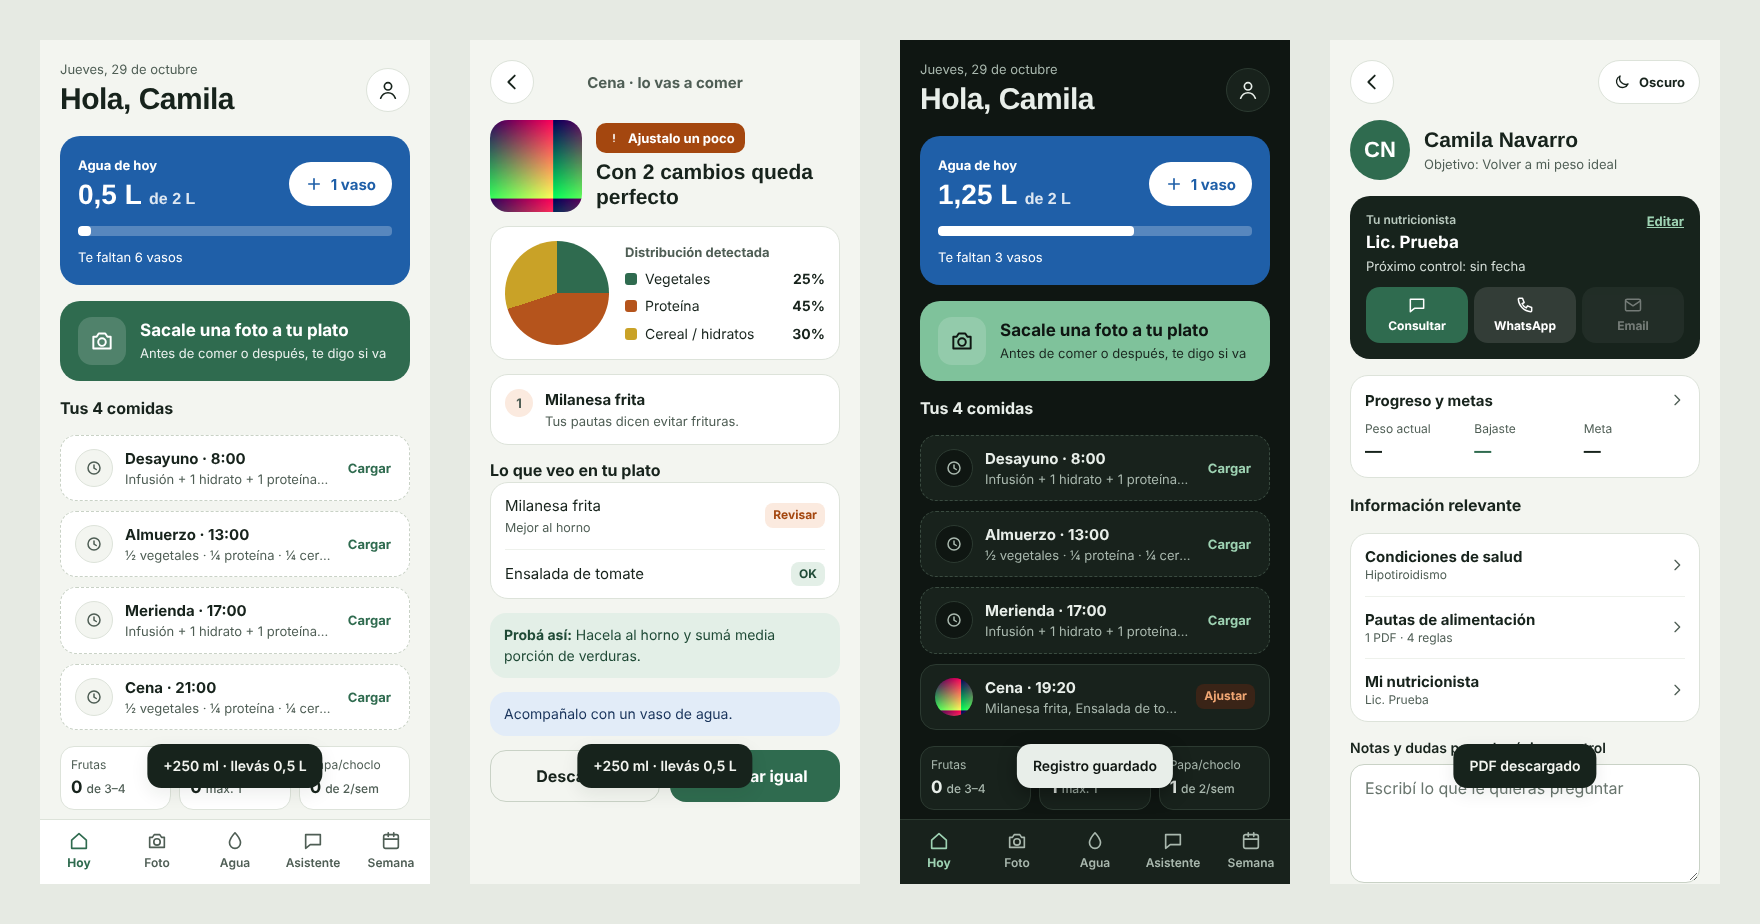
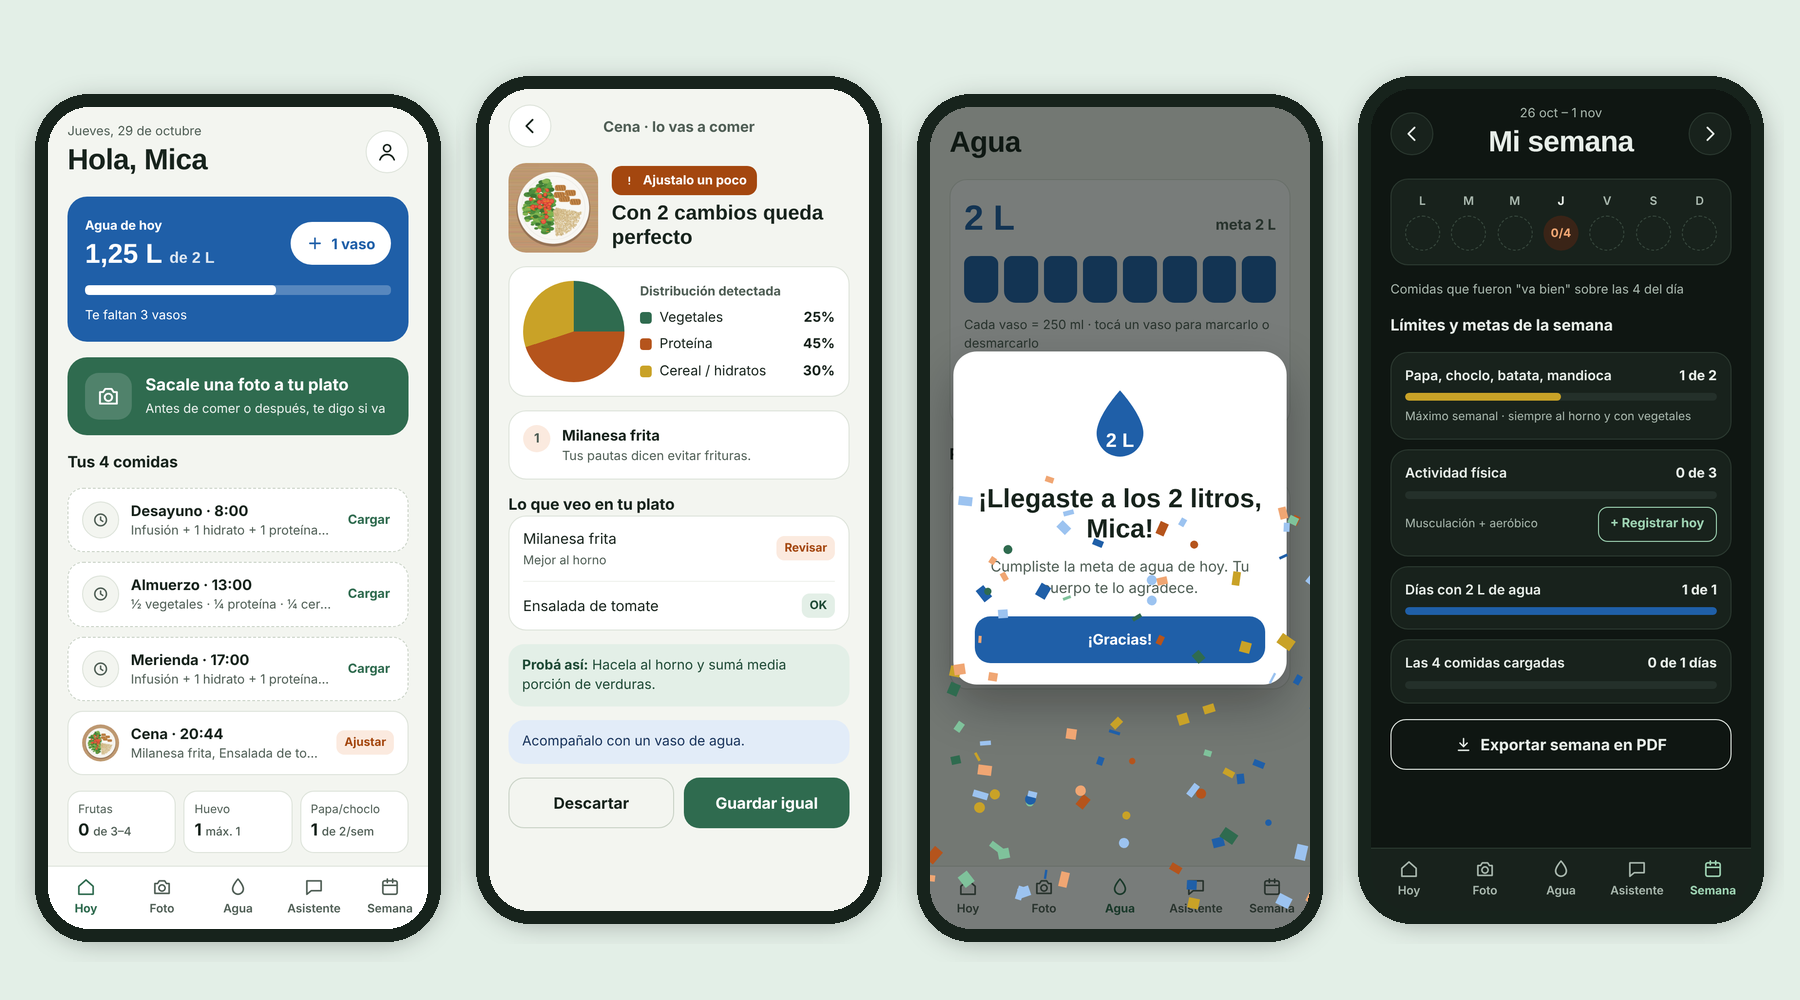
Update general

diff --git a/Mi-Plato/index.html b/Mi-Plato/index.html
@@ -9,7 +9,7 @@
   <link rel="preconnect" href="https://fonts.googleapis.com">
   <link rel="preconnect" href="https://fonts.gstatic.com" crossorigin>
   <link href="https://fonts.googleapis.com/css2?family=Bricolage+Grotesque:opsz,wght@12..96,600;12..96,700&family=DM+Sans:wght@400;500;600;700&display=swap" rel="stylesheet">
-  <link rel="stylesheet" href="css/styles.css?v=6">
+  <link rel="stylesheet" href="css/styles.css?v=7">
 </head>
 <body>
 
@@ -79,6 +79,11 @@
           <div class="grid-2">
             <div class="field"><label for="reg-nombre">Nombre</label><input id="reg-nombre" name="nombre" autocomplete="given-name" required></div>
             <div class="field"><label for="reg-apellido">Apellido</label><input id="reg-apellido" name="apellido" autocomplete="family-name" required></div>
+          </div>
+          <div class="field">
+            <label for="reg-apodo">Apodo <span class="muted">(opcional)</span></label>
+            <input id="reg-apodo" name="apodo" autocomplete="nickname" maxlength="24" placeholder="Ej.: Mica">
+            <small class="hint">Así te va a saludar la app.</small>
           </div>
           <div class="field"><label for="reg-email">Email</label><input id="reg-email" name="email" type="email" autocomplete="email" required></div>
           <div class="grid-2 grid-2--wrap">
@@ -395,6 +400,11 @@
           <a class="list-link" href="#nutri"><span><strong>Mi nutricionista</strong><small class="muted" id="perfil-nutri-txt"></small></span><svg class="chev"><use href="#i-chevron"></use></svg></a>
         </div>
         <div class="field">
+          <label for="perfil-apodo">Apodo <span class="muted">(opcional)</span></label>
+          <input id="perfil-apodo" maxlength="24" autocomplete="nickname" placeholder="¿Cómo querés que te digamos?">
+          <small class="hint">Si lo dejás vacío, usamos tu nombre.</small>
+        </div>
+        <div class="field">
           <label for="perfil-notas">Notas y dudas para el próximo control</label>
           <textarea id="perfil-notas" rows="4" placeholder="Escribí lo que le quieras preguntar"></textarea>
         </div>
@@ -502,15 +512,15 @@
   <!-- jsPDF para exportar la semana -->
   <script src="https://cdnjs.cloudflare.com/ajax/libs/jspdf/2.5.1/jspdf.umd.min.js"></script>
 
-  <script src="js/storage.js?v=6"></script>
-  <script src="js/ui.js?v=6"></script>
-  <script src="js/api.js?v=6"></script>
-  <script src="js/auth.js?v=6"></script>
-  <script src="js/hoy.js?v=6"></script>
-  <script src="js/comidas.js?v=6"></script>
-  <script src="js/semana.js?v=6"></script>
-  <script src="js/chat.js?v=6"></script>
-  <script src="js/perfil.js?v=6"></script>
-  <script src="js/app.js?v=6"></script>
+  <script src="js/storage.js?v=7"></script>
+  <script src="js/ui.js?v=7"></script>
+  <script src="js/api.js?v=7"></script>
+  <script src="js/auth.js?v=7"></script>
+  <script src="js/hoy.js?v=7"></script>
+  <script src="js/comidas.js?v=7"></script>
+  <script src="js/semana.js?v=7"></script>
+  <script src="js/chat.js?v=7"></script>
+  <script src="js/perfil.js?v=7"></script>
+  <script src="js/app.js?v=7"></script>
 </body>
 </html>

diff --git a/web/index.html b/web/index.html
@@ -228,6 +228,22 @@
                 <div class="projects-grid carousel-track" id="projectsTrack" tabindex="0">
                     <article class="project-card">
                         <div class="project-image">
+                            <img src="assets/img/mi-plato.webp" alt="Capturas de Mi Plato: pantalla Hoy con el agua del día, análisis de un plato y festejo al llegar a los 2 litros" width="800" height="500" loading="lazy">
+                        </div>
+                        <div class="project-info">
+                            <h3>Mi Plato</h3>
+                            <p class="project-description">App mobile para seguir el plan de tu nutricionista: le sacás foto al plato y la IA te dice si va bien según tus pautas. Agua diaria con recordatorios, resumen semanal en PDF y chat de recetas.</p>
+                            <ul class="project-tech">
+                                <li>HTML5</li><li>CSS3</li><li>JavaScript</li><li>Gemini API</li><li>Vercel</li>
+                            </ul>
+                            <div class="project-links">
+                                <a href="https://mi-plato-cmno.vercel.app/" target="_blank" rel="noopener" class="project-link">Ver demo</a>
+                                <a href="https://github.com/NavarroCam/Portafolio/tree/main/Mi-Plato" target="_blank" rel="noopener" class="project-link">Ver código</a>
+                            </div>
+                        </div>
+                    </article>
+                    <article class="project-card">
+                        <div class="project-image">
                             <img src="assets/img/rastreador-postulaciones.png" alt="Captura del Rastreador de postulaciones con el resumen por estado y la lista de seguimientos" width="800" height="560" loading="lazy">
                         </div>
                         <div class="project-info">

diff --git a/Mi-Plato/js/perfil.js b/Mi-Plato/js/perfil.js
@@ -20,6 +20,12 @@ Screens.perfil = {
       UI.toast('Notas guardadas');
     });
     document.getElementById('perfil-tema').addEventListener('change', e => UI.setTema(e.target.value));
+    document.getElementById('perfil-apodo').addEventListener('change', e => {
+      const apodo = e.target.value.trim().slice(0, 24);
+      Store.update(u => { u.perfil.apodo = apodo; });
+      UI.toast(apodo ? `¡Listo, ${apodo}!` : 'Apodo borrado: te vamos a decir por tu nombre');
+      this.render();
+    });
     document.getElementById('perfil-salir').addEventListener('click', () => {
       Store.logout();
       UI.ir('login');
@@ -30,7 +36,8 @@ Screens.perfil = {
     const u = Store.u;
     const p = u.perfil;
     document.getElementById('perfil-iniciales').textContent = ((p.nombre[0] || '') + (p.apellido[0] || '')).toUpperCase();
-    document.getElementById('perfil-nombre').textContent = `${p.nombre} ${p.apellido}`.trim();
+    document.getElementById('perfil-nombre').textContent = `${p.nombre} ${p.apellido}`.trim() + (p.apodo ? ` (${p.apodo})` : '');
+    document.getElementById('perfil-apodo').value = p.apodo || '';
     document.getElementById('perfil-objetivo').textContent = u.nutri.objetivo ? 'Objetivo: ' + u.nutri.objetivo : Store.email;
 
     // Tarjeta de nutricionista: solo si indicó que tiene uno

diff --git a/Mi-Plato/js/hoy.js b/Mi-Plato/js/hoy.js
@@ -62,7 +62,8 @@ const Festejo = {
     const modal = document.getElementById('festejo');
     const u = Store.u;
     const racha = Agua.racha();
-    document.getElementById('festejo-titulo').textContent = `¡Llegaste a los 2 litros${u.perfil.nombre ? ', ' + u.perfil.nombre : ''}!`;
+    const quien = nombreCorto();
+    document.getElementById('festejo-titulo').textContent = `¡Llegaste a los 2 litros${quien ? ', ' + quien : ''}!`;
     document.getElementById('festejo-texto').textContent = racha > 1
       ? `Llevás ${racha} días seguidos cumpliendo la meta de agua. ¡Seguí así!`
       : 'Cumpliste la meta de agua de hoy. Tu cuerpo te lo agradece.';
@@ -204,7 +205,7 @@ Screens.hoy = {
     const u = Store.u;
     const hoy = new Date();
     document.getElementById('hoy-fecha').textContent = Fechas.largo(hoy);
-    document.getElementById('hoy-saludo').textContent = 'Hola, ' + (u.perfil.nombre || '');
+    document.getElementById('hoy-saludo').textContent = nombreCorto() ? 'Hola, ' + nombreCorto() : 'Hola';
 
     // Agua
     const ml = Agua.hoy();

diff --git a/Mi-Plato/js/storage.js b/Mi-Plato/js/storage.js
@@ -33,7 +33,7 @@ const Store = (() => {
     return {
       creado: new Date().toISOString(),
       passHash: datos.passHash,
-      perfil: { nombre: datos.nombre, apellido: datos.apellido, nacimiento: datos.nacimiento || '', altura: datos.altura || '' },
+      perfil: { nombre: datos.nombre, apellido: datos.apellido, apodo: datos.apodo || '', nacimiento: datos.nacimiento || '', altura: datos.altura || '' },
       onboarding: false,
       salud: { condiciones: [], otra: '', alergias: '' },
       nutri: { tiene: true, nombre: '', telefono: '', email: '', proximo: '', frecuencia: 'Cada 15 días', objetivo: '' },
@@ -73,6 +73,13 @@ const Store = (() => {
     }
   };
 })();
+
+/** Cómo le habla la app al usuario: el apodo si lo cargó, si no el nombre */
+function nombreCorto() {
+  const p = Store.u ? Store.u.perfil : null;
+  if (!p) return '';
+  return (p.apodo || p.nombre || '').trim();
+}
 
 /* ---------- Fechas ---------- */
 const Fechas = {

diff --git a/Mi-Plato/api/gemini.js b/Mi-Plato/api/gemini.js
@@ -49,7 +49,8 @@ function contextoUsuario(b) {
       : 'Todavía no cargó pautas de su nutricionista: usá criterios generales de alimentación saludable (plato con ½ vegetales, ¼ proteína magra, ¼ cereal integral o legumbre, evitar frituras y ultraprocesados).',
     cond.length ? 'Condiciones de salud que indicó: ' + cond.join(', ') + '.' : '',
     b.alergias ? 'Alergias o alimentos que no puede comer: ' + String(b.alergias).slice(0, 300) + '.' : '',
-    b.objetivo ? 'Su objetivo: ' + String(b.objetivo).slice(0, 200) + '.' : ''
+    b.objetivo ? 'Su objetivo: ' + String(b.objetivo).slice(0, 200) + '.' : '',
+    b.apodo ? 'Se llama "' + String(b.apodo).slice(0, 24).replace(/["\n]/g, '') + '": si la/lo nombrás, usá ese nombre (sin abusar).' : ''
   ].filter(Boolean).join('\n');
 }
 

diff --git a/Mi-Plato/js/chat.js b/Mi-Plato/js/chat.js
@@ -54,7 +54,8 @@ Screens.chat = {
     const log = document.getElementById('chat-log');
     const msgs = Store.u.chat;
     if (!msgs.length) {
-      log.innerHTML = `<p class="chat-empty">Preguntame por recetas, ingredientes o qué comer.<br>Respondo según tus pautas${Store.u.pautas.reglas.length ? '' : ' (todavía no cargaste ninguna)'}.</p>`;
+      const quien = nombreCorto();
+      log.innerHTML = `<p class="chat-empty">${quien ? `¡Hola, ${UI.esc(quien)}! ` : ''}Preguntame por recetas, ingredientes o qué comer.<br>Respondo según tus pautas${Store.u.pautas.reglas.length ? '' : ' (todavía no cargaste ninguna)'}.</p>`;
     } else {
       log.innerHTML = msgs.map(m => m.role === 'user'
         ? `<div class="msg msg--user">${UI.esc(m.text)}</div>`

diff --git a/Mi-Plato/js/auth.js b/Mi-Plato/js/auth.js
@@ -55,6 +55,7 @@ Screens.registro = {
         passHash: await hashPass(email, f.pass.value),
         nombre: f.nombre.value.trim(),
         apellido: f.apellido.value.trim(),
+        apodo: f.apodo.value.trim(),
         nacimiento: f.nacimiento.value,
         altura: f.altura.value
       });
@@ -239,7 +240,7 @@ Screens.pautas = {
       this.cola = this.cola.filter(x => x.estado !== 'error');
       if (!Store.u.onboarding) {
         Store.update(u => { u.onboarding = true; });
-        UI.toast('¡Listo! Ya podés cargar tu primera comida.');
+        UI.toast(`¡Listo${nombreCorto() ? ', ' + nombreCorto() : ''}! Ya podés cargar tu primera comida.`);
         UI.ir('hoy');
       } else {
         UI.ir('perfil');

diff --git a/Mi-Plato/css/styles.css b/Mi-Plato/css/styles.css
@@ -239,6 +239,8 @@ h1, h2, h3, p { margin: 0; }
 }
 .field textarea { padding: 12px 14px; line-height: 1.45; resize: vertical; }
 .field label { overflow-wrap: anywhere; }
+.field label .muted { font-weight: 500; }
+.hint { font-size: 12px; color: var(--muted); }
 
 /* Fechas y selects en iOS: sin esto el campo se sale de su columna */
 .field input[type="date"], .field input[type="time"], .field select {

diff --git a/Mi-Plato/js/api.js b/Mi-Plato/js/api.js
@@ -17,7 +17,8 @@ const Api = (() => {
       reglas: u.pautas.reglas,
       condiciones: cond,
       alergias: u.salud.alergias,
-      objetivo: u.nutri.objetivo
+      objetivo: u.nutri.objetivo,
+      apodo: nombreCorto()
     };
   }
 

diff --git a/Mi-Plato/README.md b/Mi-Plato/README.md
@@ -1,34 +1,34 @@
 # 🥗 Mi Plato - Seguimiento de comidas
 
-Aplicación web para hacer seguimiento de lo que comés siguiendo las pautas de tu nutricionista, desarrollada con **HTML5**, **CSS3** y **JavaScript**. Le sacás una foto al plato y la app, con la API de **Gemini**, te dice si está bien o qué ajustar según tus pautas.
+Aplicación web para hacer seguimiento de lo que comés siguiendo las pautas de tu nutricionista, desarrollada con **HTML5**, **CSS3** y **JavaScript**. Le sacás una foto al plato y la app, con la API de **Gemini**, te dice si está bien o qué ajustar según tus pautas. Pensada para usarse desde el celular.
 
-🌐 **Ver app en vivo:** [link de Vercel]
+🌐 **Ver app en vivo:** https://mi-plato-cmno.vercel.app/
 
 
 ## 🚀 Características
 
-* **Ingreso y registro:** Cuenta con email y contraseña (guardada como hash SHA-256).
+* **Ingreso y registro:** Cuenta con email y contraseña (guardada como hash SHA-256) y apodo opcional: si lo cargás, la app te saluda así.
 * **Configuración inicial:** Condiciones de salud, alergias, datos de tu nutricionista y tu objetivo.
-* **Pautas en PDF:** Subís varios PDFs a la vez (hasta 25 MB cada uno). El texto se extrae en el celular con pdf.js y Gemini lo convierte en reglas que podés editar; si te equivocás, borrás el archivo y se van sus reglas.
-* **Análisis por foto:** Cargás lo que vas a comer o ya comiste y la app te dice si "va bien" o "ajustalo", con la distribución del plato y una sugerencia.
-* **Agua diaria:** Seguimiento de los 2 L con vasos y recordatorios (cada 2 horas, con almuerzo y cena, y si vas atrasada).
+* **Pautas en PDF:** Subís varios PDFs a la vez (hasta 25 MB cada uno). El texto se extrae en el celular y Gemini los lee todos en un solo pedido para armar tus reglas, que podés editar. Si te equivocás de archivo, lo eliminás y se van también sus reglas.
+* **Análisis por foto:** Cargás lo que vas a comer o ya comiste y la app te dice si "va bien" o "ajustalo", con la distribución del plato, lo que detectó y una sugerencia.
+* **Agua diaria:** Seguimiento de los 2 L con vasos, recordatorios (cada 2 horas, con almuerzo y cena, y si vas atrasada) y festejo con confeti al cumplir la meta.
 * **Mi semana:** Comidas "va bien" por día, límites semanales (papa, choclo, batata), actividad física y días con 2 L.
-* **Exportar en PDF:** Resumen semanal con fotos para compartir con tu nutricionista.
+* **Exportar en PDF:** Resumen semanal con fotos para descargar o compartir con tu nutricionista.
 * **Asistente:** Chat con Gemini para pedir recetas y consultar ingredientes, respondiendo según tus pautas.
 * **Mi usuario:** Progreso de peso y medidas con gráfico, metas y acceso directo a tu nutricionista por WhatsApp o email.
 * **Modo claro y oscuro:** Automático según el celular o elegido a mano.
-* **Diseño Responsive:** Pensada para el celular (también funciona en computadora).
+* **Diseño mobile first:** Respeta la barra de estado y la del navegador, y los formularios se apilan en pantallas chicas.
 
 
 ## 🛠 Tecnologías Utilizadas
 
 * **HTML5:** Estructura de una sola página (SPA) con navegación por hash.
-* **CSS3:** Variables CSS para los temas, Flexbox, Grid y `prefers-color-scheme`.
-* **JavaScript (Vanilla):** DOM, eventos, `fetch` y `async/await`, `localStorage`, Canvas (para achicar fotos), Web Crypto, Notifications y Web Share.
-* **Gemini API:** Análisis de fotos, lectura de PDFs y chat.
+* **CSS3:** Variables CSS para los temas, Flexbox, Grid, `prefers-color-scheme` y `prefers-reduced-motion`.
+* **JavaScript (Vanilla):** DOM, eventos, `fetch` y `async/await`, `localStorage`, Canvas (fotos y confeti), Web Crypto, Notifications y Web Share.
+* **Gemini API:** Análisis de fotos, lectura de pautas y chat. Si un modelo está saturado o sin cuota, la función prueba con otro.
 * **Vercel:** Publicación del sitio y función serverless que protege la clave de la API.
-* **jsPDF:** Generación del resumen semanal en PDF.
 * **pdf.js:** Lectura de los PDFs de pautas en el navegador.
+* **jsPDF:** Generación del resumen semanal en PDF.
 
 
 ## 📸 Vista Previa
@@ -43,11 +43,11 @@ Mi-Plato/
 ├── index.html
 ├── css/styles.css
 ├── js/
-│   ├── storage.js     # datos en localStorage y fechas
+│   ├── storage.js     # datos en localStorage, apodo y fechas
 │   ├── ui.js          # navegación, tema y utilidades
-│   ├── api.js         # llamadas a /api/gemini e imágenes
+│   ├── api.js         # llamadas a /api/gemini, imágenes y PDFs
 │   ├── auth.js        # ingreso, registro, salud, nutri y pautas
-│   ├── hoy.js         # pantalla Hoy, agua y recordatorios
+│   ├── hoy.js         # pantalla Hoy, agua, festejo y recordatorios
 │   ├── comidas.js     # cargar foto y resultado
 │   ├── semana.js      # semana y PDF
 │   ├── chat.js        # asistente
@@ -63,17 +63,21 @@ Mi-Plato/
 
 ## ▶ Cómo usar
 
-1. Crear una cuenta y completar salud, nutricionista y pautas (podés subir los PDFs).
+1. Crear una cuenta (con apodo, si querés) y completar salud, nutricionista y pautas en PDF.
 2. En **Hoy**, tocar "Sacale una foto a tu plato", elegir la comida y analizar.
 3. Marcar el agua que vas tomando y activar los recordatorios.
 4. En **Semana**, revisar cómo venís y exportar el PDF para tu nutricionista.
+5. En **Asistente**, pedir recetas o preguntar por un ingrediente.
 
 
 ## 🔑 Configuración
 
 1. Crear una clave en [Google AI Studio](https://aistudio.google.com/apikey).
-2. En Vercel: **Settings › Environment Variables** → agregar `GEMINI_API_KEY`.
-3. Para probar en tu compu: copiar `.env.example` como `.env.local`, pegar la clave y correr `vercel dev`.
+2. En Vercel: **Settings › Environment Variables** → agregar `GEMINI_API_KEY` (tipo Secret) y hacer **Redeploy**.
+3. Root Directory del proyecto en Vercel: `Mi-Plato`.
+4. Para probar en tu compu: copiar `.env.example` como `.env.local`, pegar la clave y correr `vercel dev`.
+
+**Diagnóstico:** abrí [`/api/gemini`](https://mi-plato-cmno.vercel.app/api/gemini) en el navegador para ver si la clave está configurada y si Gemini responde (no muestra la clave).
 
 
 ## 📌 Nota

diff --git a/README.md b/README.md
@@ -23,6 +23,7 @@ Estudiante de Ingeniería Informática de la UNLAM 💚.
 -  Agenda de contactos 📒
 -  CineApp - Reserva de entradas de cine 🎬
 -  Rastreador de postulaciones 📋
+-  Mi Plato - Seguimiento de comidas 🥗
 
 
 ## 📫 Contacto
